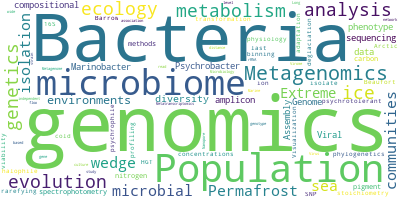
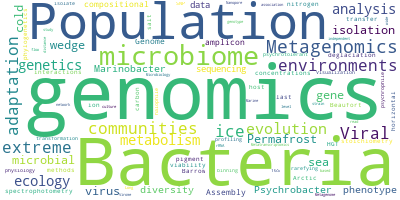
Zhongetal

diff --git a/papers/Cryosphere/Cold_brines/Zhongetal.md b/papers/Cryosphere/Cold_brines/Zhongetal.md
@@ -1,0 +1,22 @@
+10/02/19
+## Authors:
+Zhong, ZZ; Rapp, JZ; Wainaina, JH; Solonenko, NE; Maughan, H; Carpenter, SD; Cooper, ZS; Jang, HB; Bolduc, B, Deming, JW; Sullivan, MB
+## Title:
+Viral ecogenomics of Arctic cryopeg brine and sea ice
+## Keywords:
+viral communities, extreme environments, virus-host interactions, cold adaptation, salt adaptation, horizontal gene transfer
+## Geographic Coverage
+Utqiagvik, Alaska
+## Field Dates:
+May 2018; May 2017
+## Significance:
+This (pre-submission) paper uses a modern ecogenomics toolkit to investigate baseline interactions of viruses and bacteria in subzero brines from the Arctic. I co-authored this paper, collected the samples, and processed the microbial profile data.
+
+## Notes:
+Viruses from SZBs infect dominant microbial taxa.
+
+Many viruses in cryopegs and sea ice brines are unknown.
+
+Several viral populations encode FAD genes that appear to be AMGs that assist with membrane function in the cold.
+
+Cryopeg vFAD genes form a distinct clade with no close matches in the cryopeg metagenomes.

diff --git a/README.md b/README.md
@@ -32,6 +32,8 @@ Notes (author, year, journal in file header) on readings.  Top of each note docu
 
 ### Cold_brines 
  
+* [Zhongetal - Viral ecogenomics of Arctic cryopeg brine and sea ice](https://github.com/zscooper/ReadingList/tree/master/papers/Cryosphere/Cold_brines/Zhongetal.md) 
+     * This (pre-submission) paper uses a modern ecogenomics toolkit to investigate baseline interactions of viruses and bacteria in subzero brines from the Arctic. I co-authored this paper, collected the samples, and processed the microbial profile data. 
 * [Bakermans2015 - Extreme environments as model systems for the study of microbial evolution](https://github.com/zscooper/ReadingList/tree/master/papers/Cryosphere/Cold_brines/Bakermans2015.md) 
      * This is a book chapter Life in Extreme Environments (ed. Dirk Wagner) discussing the study of microbial evolution in extreme environments. 
 
